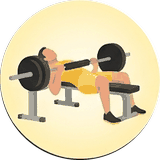
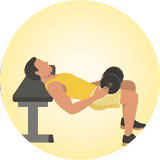
Hip thrust: new image

diff --git a/pad5.html b/pad5.html
@@ -260,7 +260,7 @@
   const INTER_EVERY = 10 * 60e3, INTER_FOR = 30e3, CONFETTI_FOR = 90e3;
   const DATA_EVERY = 5 * 60e3, WX_EVERY = 15 * 60e3, PHOTO_EVERY = 60e3, RELOAD_EVERY = 6 * 3600e3;
   const GOLD = '#F2B84F';
-  const BUILD = 'desk-v2-20261111-dhtimg';   // bump on every release: tablets reload themselves when this changes
+  const BUILD = 'desk-v2-20261111-dht2';   // bump on every release: tablets reload themselves when this changes
 
   // ---------- Config from URL, remembered on device ----------
   const qs = new URLSearchParams(location.search);
@@ -606,7 +606,7 @@
   }
 
   // ---------- Workout thumbnails: one round picture per exercise (img/ex/<Liftin exerciseID>.png), 4-5 per day, then the incline treadmill in place of the Zone 2 block that ends every day ----------
-  const EX_V = 3;   // bump when an image is replaced, so tablets fetch the new one
+  const EX_V = 4;   // bump when an image is replaced, so tablets fetch the new one
   const DAY_EX = {
     1: ['hack_squat', 'incline_dumbbell_press', 'machine_seated_row', 'standing_calf_raise', 'incline_treadmill'],
     2: ['barbell_hip_thrust', 'lateral_raise_cable', 'incline_dumbbell_curl', 'rear_delt_reverse_fly', 'cable_core_pallof_press', 'incline_treadmill'],
